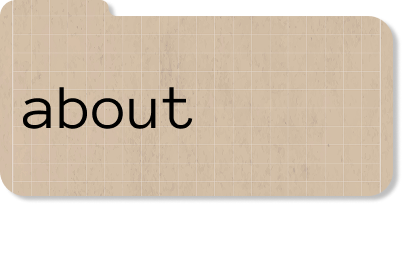
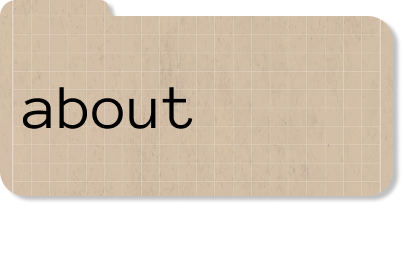
www

diff --git a/about.html b/about.html
@@ -20,16 +20,18 @@
         <img class="card" id="backgrounds" src="assets/backgrounds/textbox.png">
         <img id="title" src="assets/title.png"> 
         <p id="artisttext">
-        Letting my chaotic mind lead the way through my artistic practice, my works become a physical manifestation of my mind.  
-        <br>
-        <br>
-        Currently enraptured by the depths of fandom and the human nature to adore and obsess, my works illustrate this nature of the fan throughout time and expand on fandom beyond the digital perspective. 
-        <br>
-        <br>
-        <br>
-        Contact: 
-        @bethany.in.the.archives on instagram
-    </p>
+            Letting my chaotic mind lead the way through my artistic practice, my works become a physical manifestation of my mind.  
+            <br>
+            <br>
+            Currently enraptured by the depths of fandom and the human nature to adore and obsess, my works illustrate this nature of the fan throughout time and expand on fandom beyond the digital perspective. 
+            <br>
+            <br>
+            <br>
+            Contact: 
+            @bethany.in.the.archives on instagram
+        </p>
+        <img id="cvbox" src="assets/backgrounds/box.png">
+
     </div>
 </body>
     <script src="cards.js"></script>

diff --git a/style.css b/style.css
@@ -56,6 +56,11 @@ nav{
   top: 100px;
 }
 
+#cvbox{
+  top: 70%;
+  left: 100px;
+}
+
 #title{
   top: 2%;
   left: 2%;
@@ -91,12 +96,10 @@ nav{
     top: 90%;
   }
   #navimage{
-    width:19%;
+    width:21%;
   }
 
   #title{
-    width: 40%;
+    width: 30%;
   }
-
-
 }
